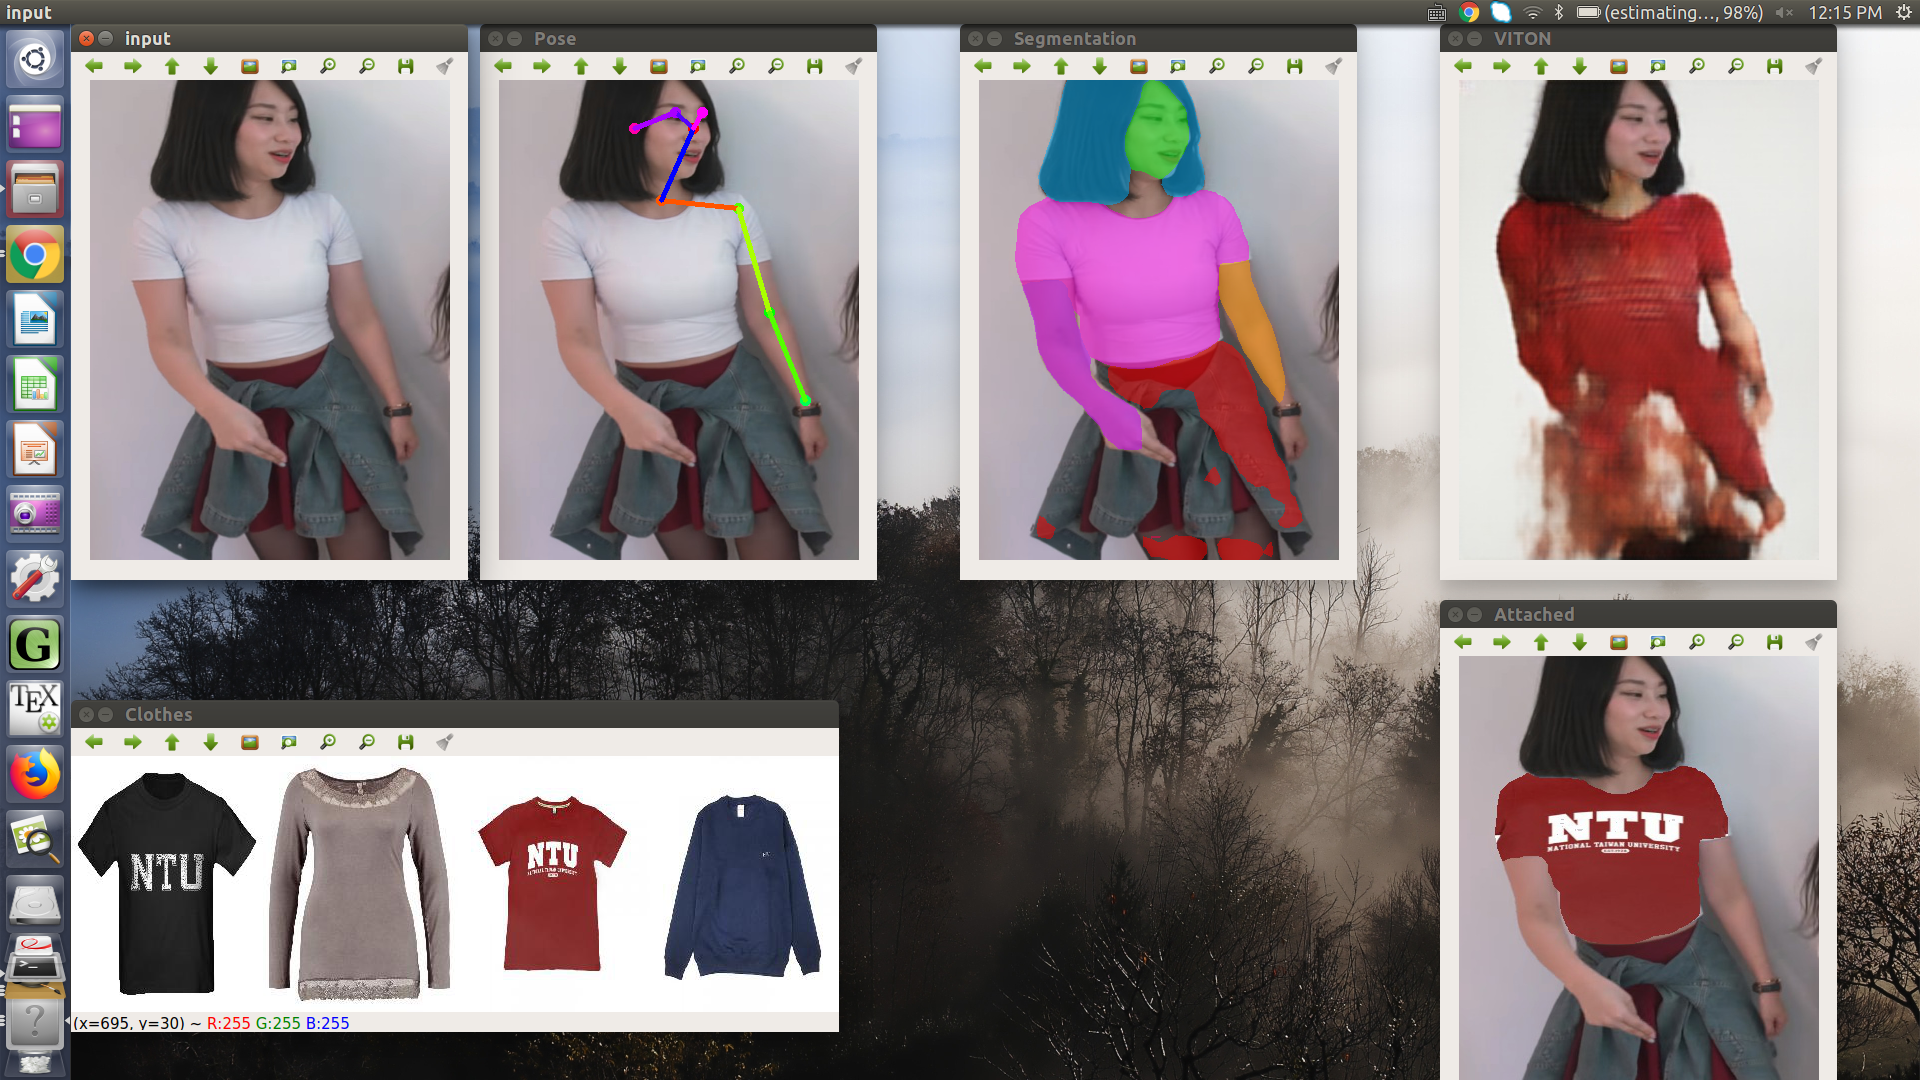
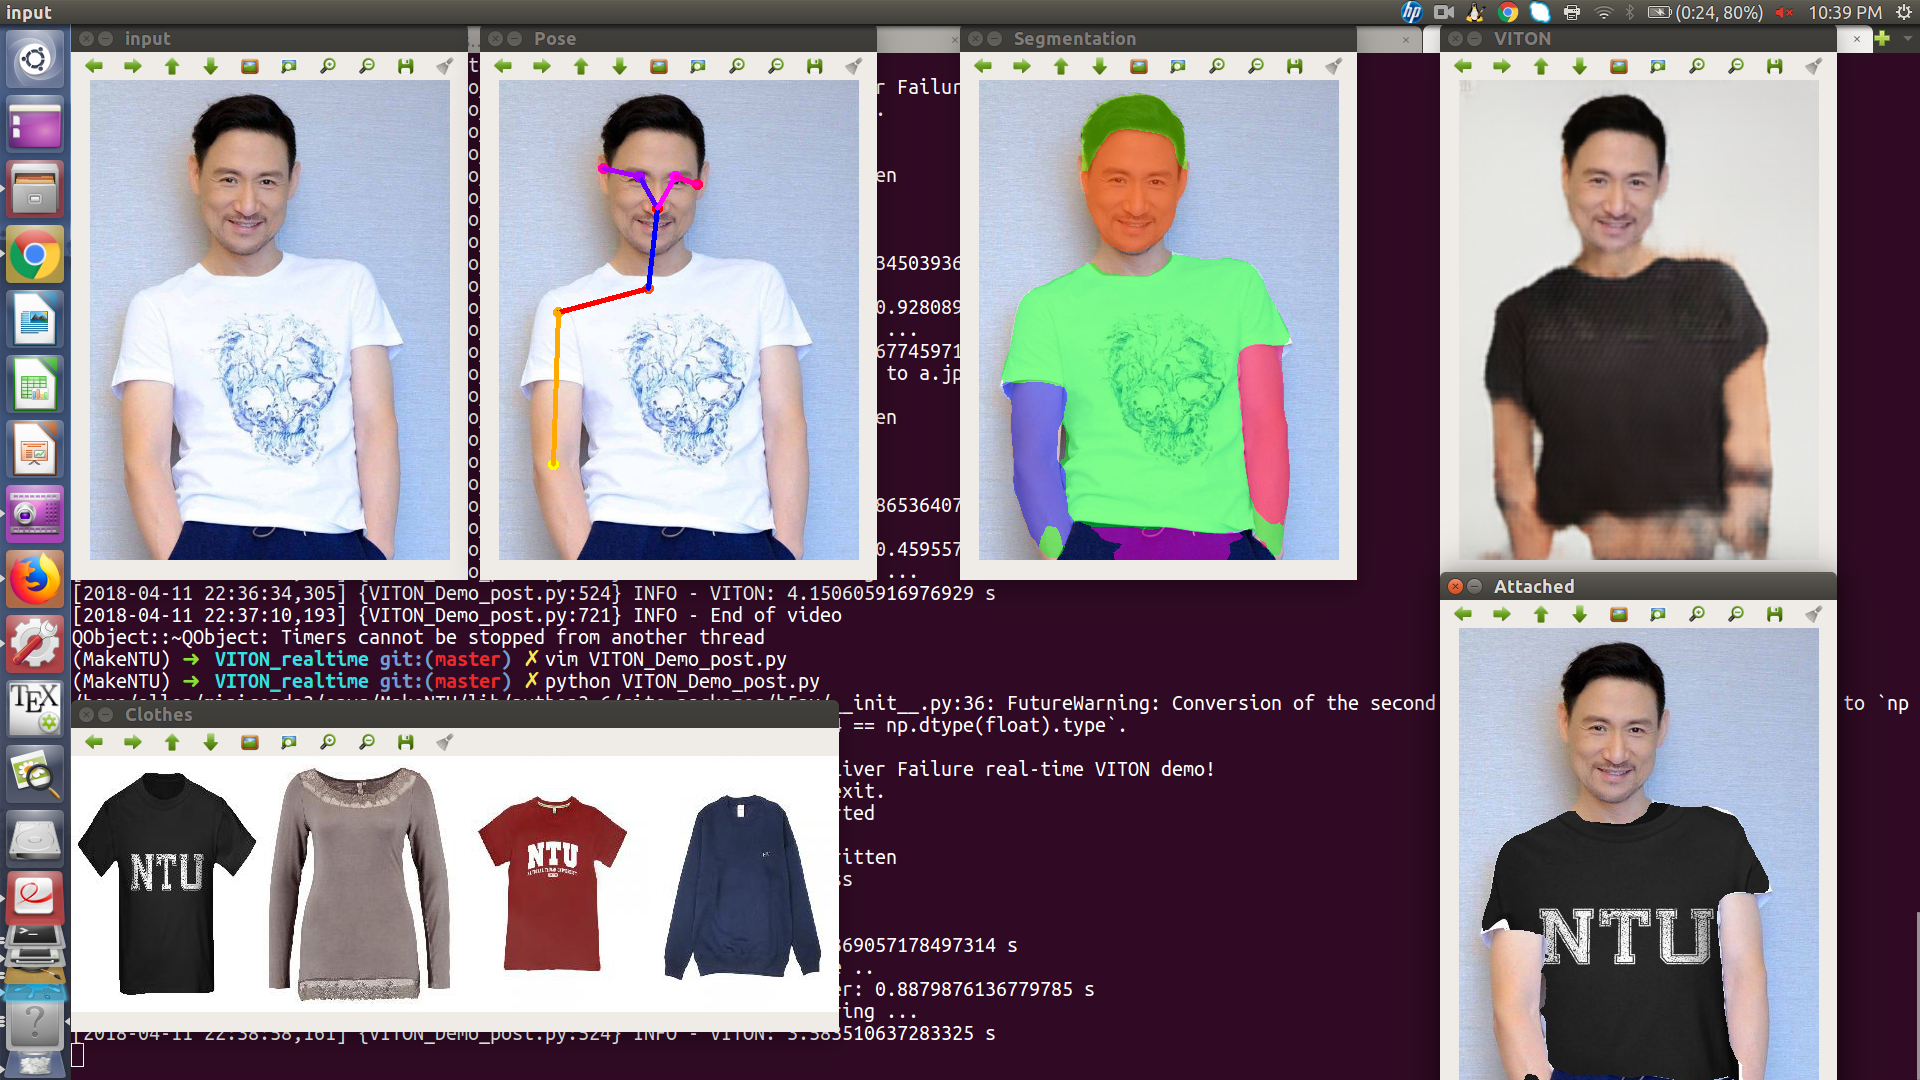
Update readme

diff --git a/README.md b/README.md
@@ -2,7 +2,15 @@
 
 Real time virtual try-on for 2018 Make NTU
 
+## What did we do?
+
 We made a clothes vendor machine that has virtual try-on feature. Here we just demostrate the software part.
+
+Three models (pose / segmentation / VITON) and five threads (read frame / pose / segment / VITON / display & control) are used in this demo program. It's a bit tricky to make it real-time (and MakeNTU is just a 24-hour event!).
+
+Segmentation inference requires heavy GPU calculation and Python threading has some problem dealing with mulitple tensorflow program, so I wrote API servers to separate those parts from threads in the main program.
+
+By doing so, five threads could do their tasks respectively. If you could get a smaller segmentation network or powerful GPU, real-time virtual try-on with VITON is possible. For now only frame reading is real-time, while other processes need to be triggered by keyboard control. 
 
 The virtual try-on part is based on [VITON: An Image-based Virtual Try-on Network](https://github.com/xthan/VITON)
 , code and dataset for the CVPR 2018 paper "VITON: An Image-based Virtual Try-on Network"
@@ -13,15 +21,18 @@ The pose estimator is based on [tf-pose-estimation](https://github.com/ildoonet/
 
 **Note: the tf-pose-estimation is not as good as Openpose!! It often fails to detect some easy cases.**
 
+## Results
+
 ![result1](images/result1.png)
-<sub>**Fig 1** 
+![result2](images/result2.png)
+<sub>**Fig 1 & 2** 
 Input: original input image; 
 Pose: detected pose (it's not good because of using tf-pose-estimation); 
 Segmentation: human parser result; 
 VTION: VITON result based on pose and segmentation and given clothes; 
 Attached: algorithm we developed to paste clothes on original picture using segmentation result; 
 Clothes: given clothes to try on.
-Input image is cropped from [here](https://www.youtube.com/watch?v=b4mzZaEliZU&feature=youtu.be)</sub>
+Input image is cropped from [here](https://www.facebook.com/139558289414447/photos/a.153087201394889.28055.139558289414447/1129802803723319/?type=1&theater) and [here](https://www.youtube.com/watch?v=b4mzZaEliZU&feature=youtu.be)</sub>
 
 [Demo video](https://youtu.be/21y2Ly9FVl0)
 
